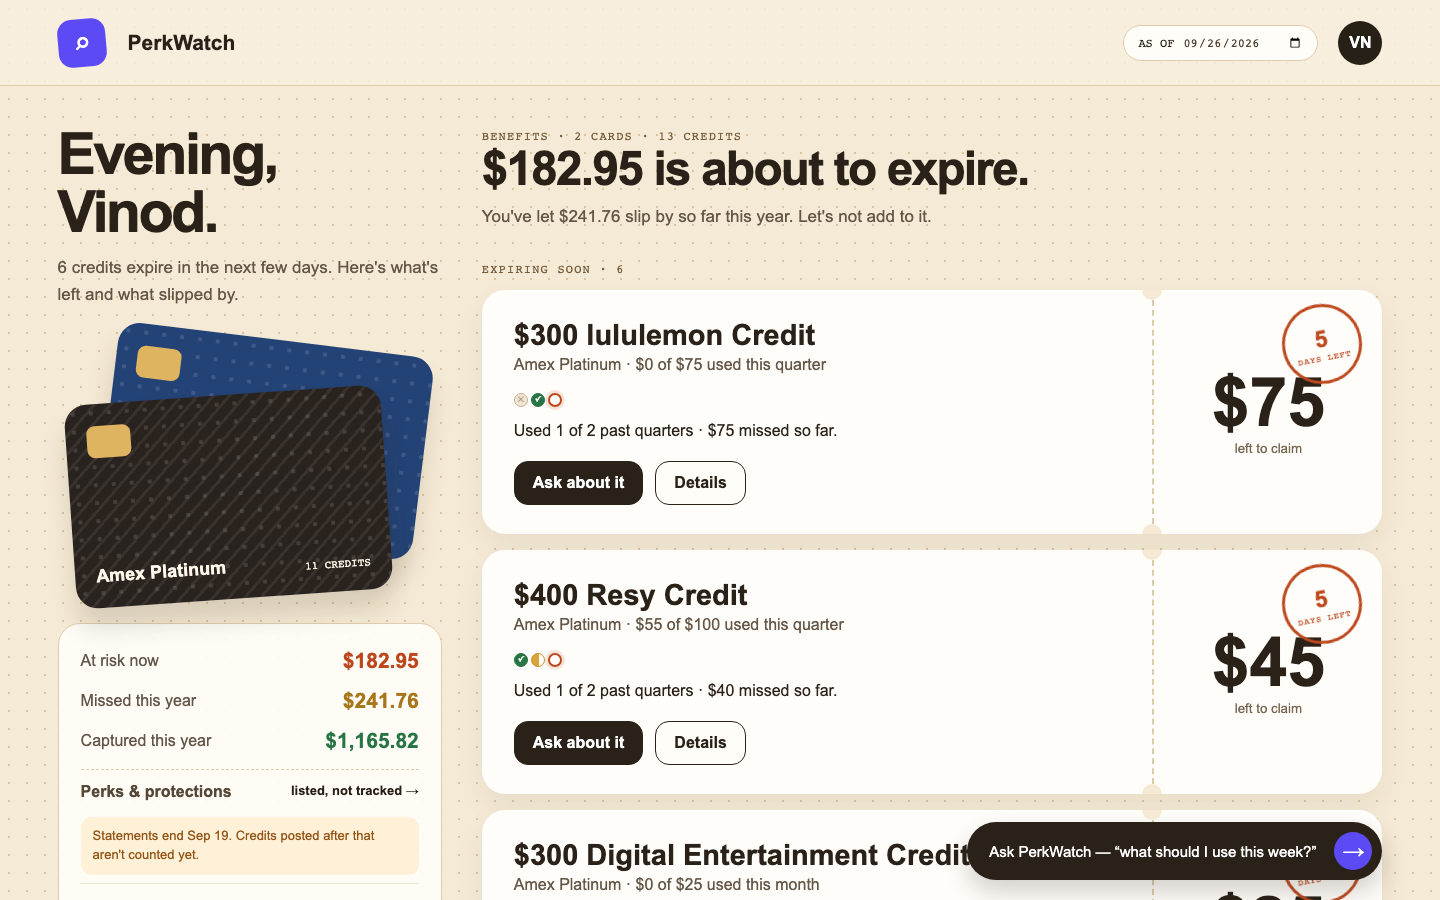
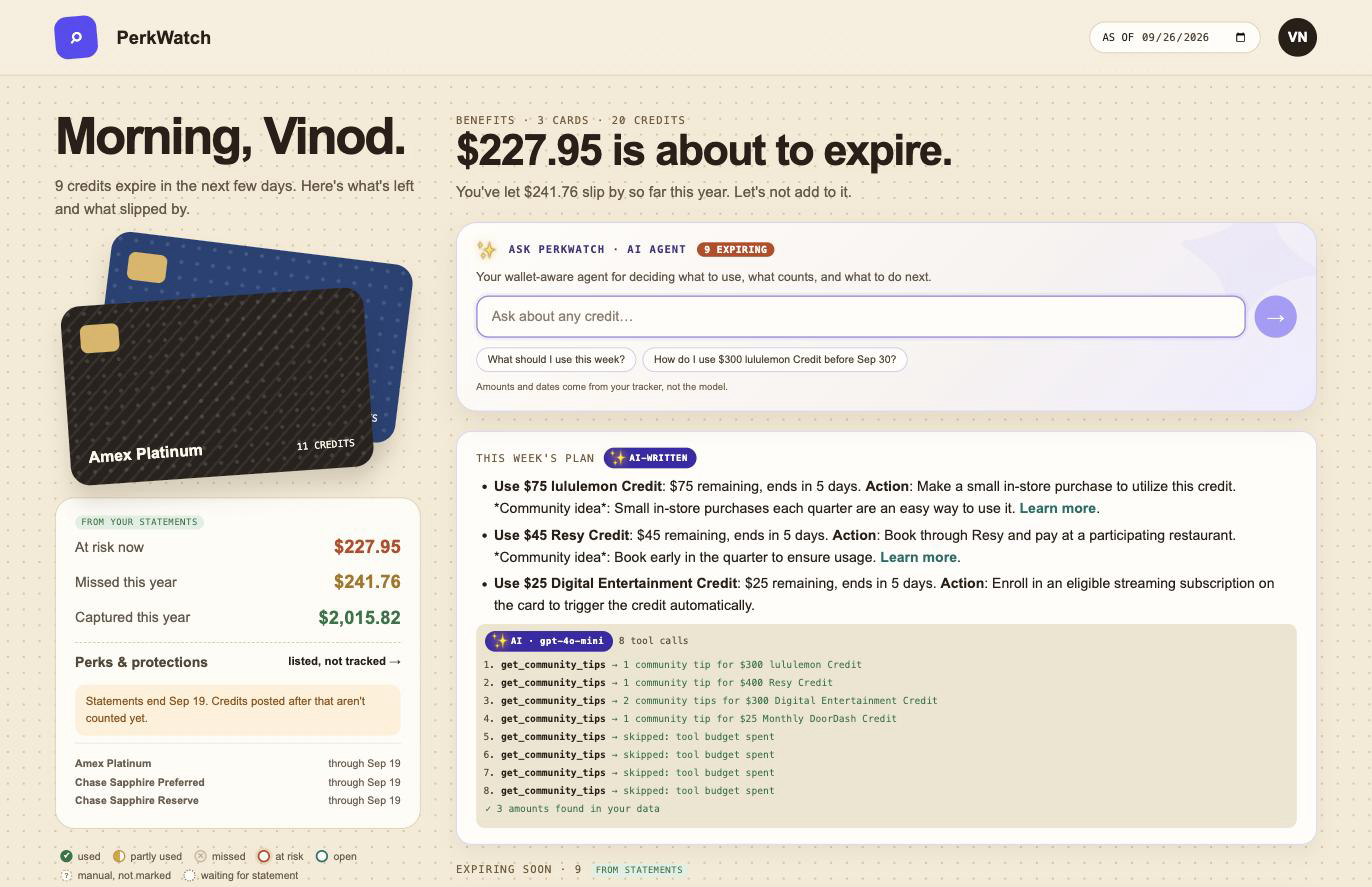
docs: refresh README screenshots for the current UI
Old screenshots predated the weekly AI plan, the Ask PerkWatch agent
panel, source labels, and the third card (Chase Sapphire Reserve).
Retaken against a live demo build so the README matches what the app
actually looks like today.

diff --git a/README.md b/README.md
@@ -41,7 +41,7 @@ flowchart TB
 
 ## Screenshots
 
-![Main page: at-risk credits, weekly AI plan, tracker](screenshots/tracker.png)
+![Main page: 3 cards, at-risk credits, the Ask PerkWatch agent, and the weekly AI plan](screenshots/tracker.png)
 
 ![Benefit panel: period history, statement credits, per-benefit chat](screenshots/benefit-chat.png)
 
